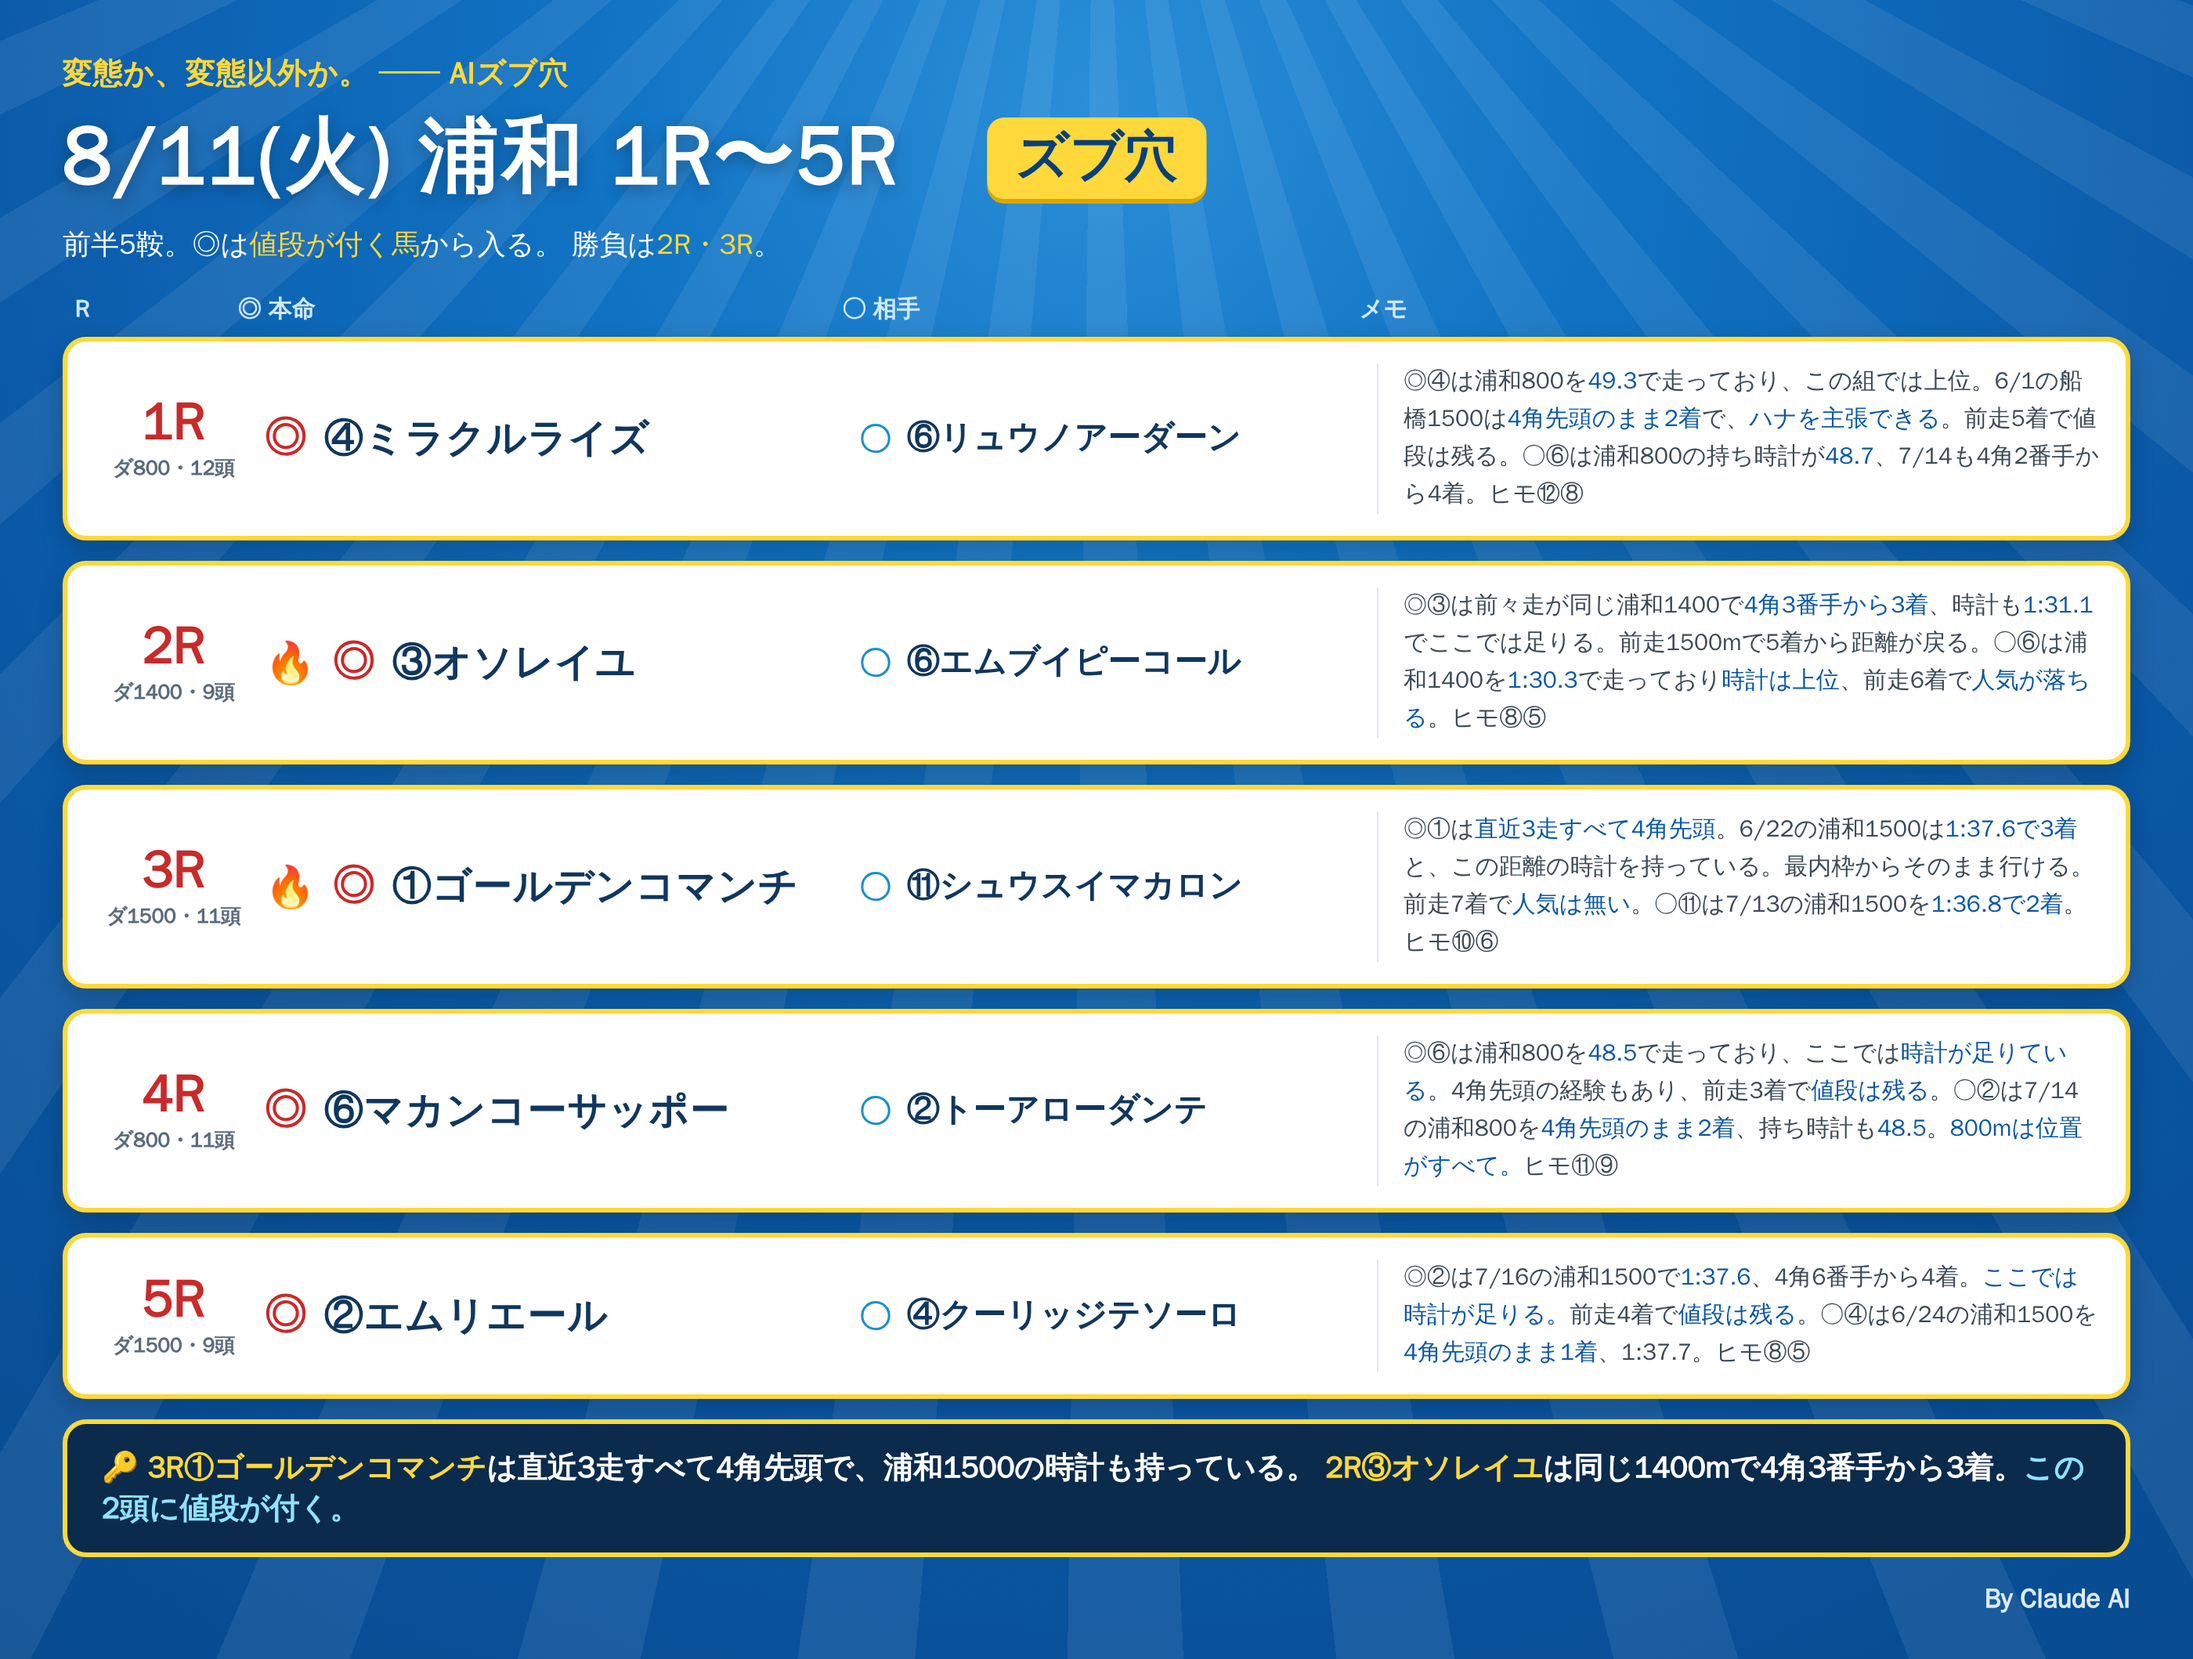
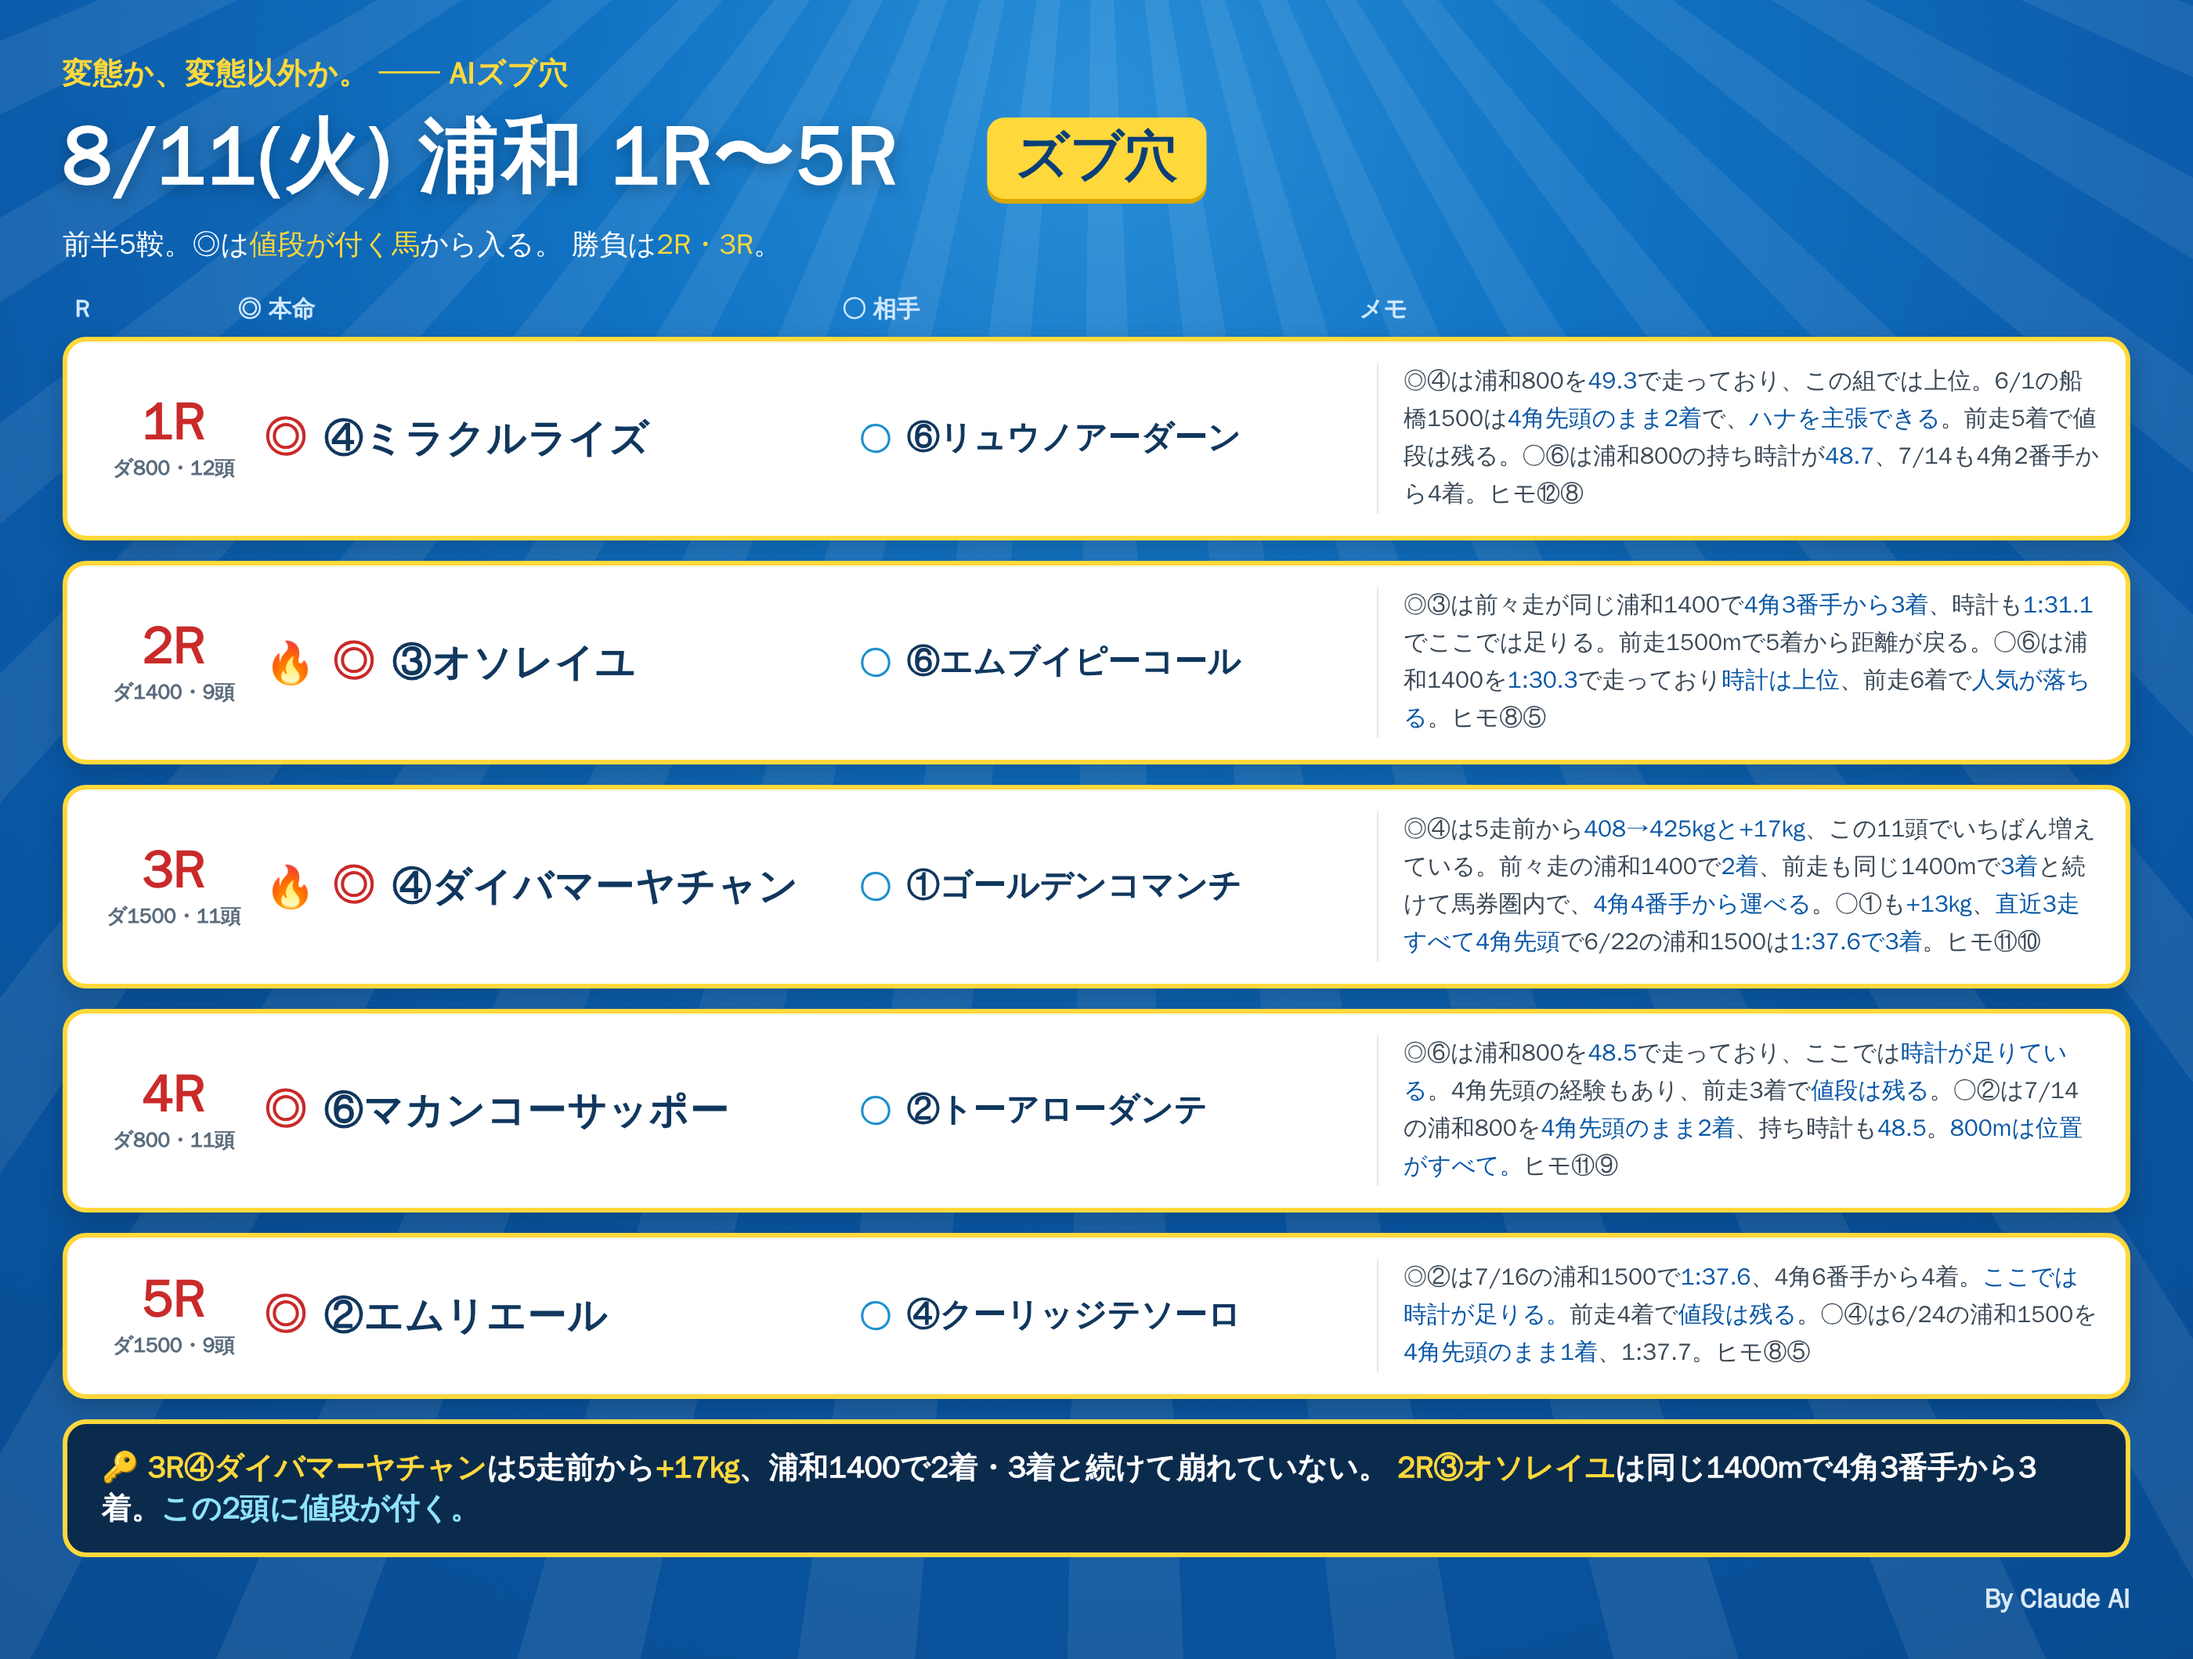
8/11 浦和 3Rの印を◎④ダイバマーヤチャン・○①ゴールデンコマンチに変更
④は5走前から408→425kgの+17kgで11頭中最大の増加。メモとフッターに反映した。

Claude-Session: https://claude.ai/code/session_01RoHscZkr96FNaxQWvUqgEw

diff --git a/notes/live/2026-08-11/urawa_1_5.html b/notes/live/2026-08-11/urawa_1_5.html
@@ -66,9 +66,9 @@
 
   <div class="row">
     <div class="rN"><div class="n">3R</div><div class="d">ダ1500・11頭</div></div>
-    <div class="hm"><span class="fire">🔥</span><span class="mk">◎</span><span class="nm">①ゴールデンコマンチ</span></div>
-    <div class="at"><span class="mk2">○</span><span class="nm2">⑪シュウスイマカロン</span></div>
-    <div class="memo">◎①は<b>直近3走すべて4角先頭</b>。6/22の浦和1500は<b>1:37.6で3着</b>と、この距離の時計を持っている。最内枠からそのまま行ける。前走7着で<b>人気は無い</b>。○⑪は7/13の浦和1500を<b>1:36.8で2着</b>。ヒモ⑩⑥</div>
+    <div class="hm"><span class="fire">🔥</span><span class="mk">◎</span><span class="nm">④ダイバマーヤチャン</span></div>
+    <div class="at"><span class="mk2">○</span><span class="nm2">①ゴールデンコマンチ</span></div>
+    <div class="memo">◎④は5走前から<b>408→425kgと+17kg</b>、この11頭でいちばん増えている。前々走の浦和1400で<b>2着</b>、前走も同じ1400mで<b>3着</b>と続けて馬券圏内で、<b>4角4番手から運べる</b>。○①も<b>+13kg</b>、<b>直近3走すべて4角先頭</b>で6/22の浦和1500は<b>1:37.6で3着</b>。ヒモ⑪⑩</div>
   </div>
 
   <div class="row">
@@ -85,7 +85,7 @@
     <div class="memo">◎②は7/16の浦和1500で<b>1:37.6</b>、4角6番手から4着。<b>ここでは時計が足りる。</b>前走4着で<b>値段は残る</b>。○④は6/24の浦和1500を<b>4角先頭のまま1着</b>、1:37.7。ヒモ⑧⑤</div>
   </div>
 
-  <div class="foot">🔑 <span class="y">3R①ゴールデンコマンチ</span>は直近3走すべて4角先頭で、浦和1500の時計も持っている。
+  <div class="foot">🔑 <span class="y">3R④ダイバマーヤチャン</span>は5走前から<span class="y">+17kg</span>、浦和1400で2着・3着と続けて崩れていない。
   <span class="y">2R③オソレイユ</span>は同じ1400mで4角3番手から3着。<span class="c">この2頭に値段が付く。</span></div>
   <div class="sig">By Claude AI</div>
 </div></div>
